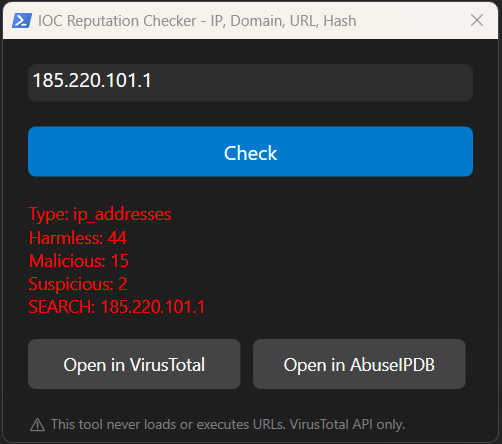
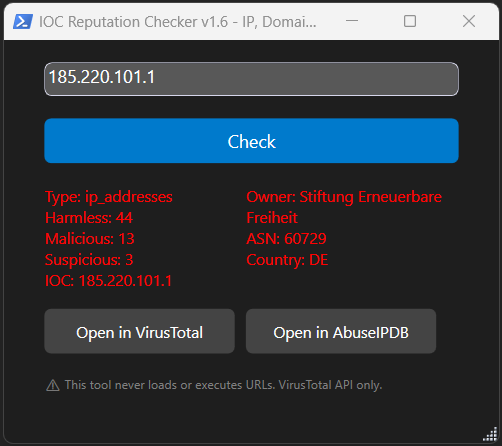
Updated README IOC-Reputation-Checker and Screenshots

diff --git a/tools/IOC-Reputation-Checker/README.md b/tools/IOC-Reputation-Checker/README.md
@@ -18,9 +18,25 @@ Currently supported integrations:
 * VirusTotal
 * AbuseIPDB
 
----
+## Why I Built This Tool?
+
+SOC Analysts often need to perform repetitive reputation checks across multiple platforms.
+
+The idea behind the project was not to replace VirusTotal or AbuseIPDB, but rather to have a PowerShell tool that simplifies checking IOC reputations without the need to switch between tabs, thereby streamlining daily workflows.
 
 ## Changelog
+
+### v1.6 (2026-06-22)
+- Added Responsive UI
+- Added Resizable Window Support
+- Added Proportional UI Scaling using WPF Viewbox
+- Added Minimum Window Size Controls
+
+### v1.5 (2026-06-16)
+- Added VirusTotal API Key Validation
+- Added Long IOC Truncation
+- Added Long File Name Truncation
+- Improved Results Panel Readability
 
 ### v1.4 (2026-06-16)
 - Added Hash Enrichment
@@ -83,6 +99,23 @@ Automatically identifies the input type:
 * AbuseIPDB reputation lookup
 * Direct access to investigation portals
 
+### Intelligence Enrichment
+
+#### IP Intelligence
+* Owner
+* ASN
+* Country
+
+#### Domain Intelligence
+* Registrar
+* Creation Date
+* Reputation
+
+#### File Intelligence
+* File Name
+* File Type
+* File Size
+
 ### Security Controls
 
 * Basic input sanitization
@@ -96,6 +129,7 @@ Automatically identifies the input type:
 * Quick investigation workflow
 * Keyboard support (Enter key)
 * Visual severity indicators
+* IOC-Specific Intelligence Panels
 
 ---
 
@@ -139,11 +173,8 @@ $ApiKey = ""
 
 Planned enhancements include:
 
-* Additional Threat Intelligence providers
-* IP geolocation enrichment (Country)
 * VPN / Proxy identification
-* Improved input validation
-* Enhanced error handling
+* Enhanced URL Recognition
 * UI improvements
 
 ---